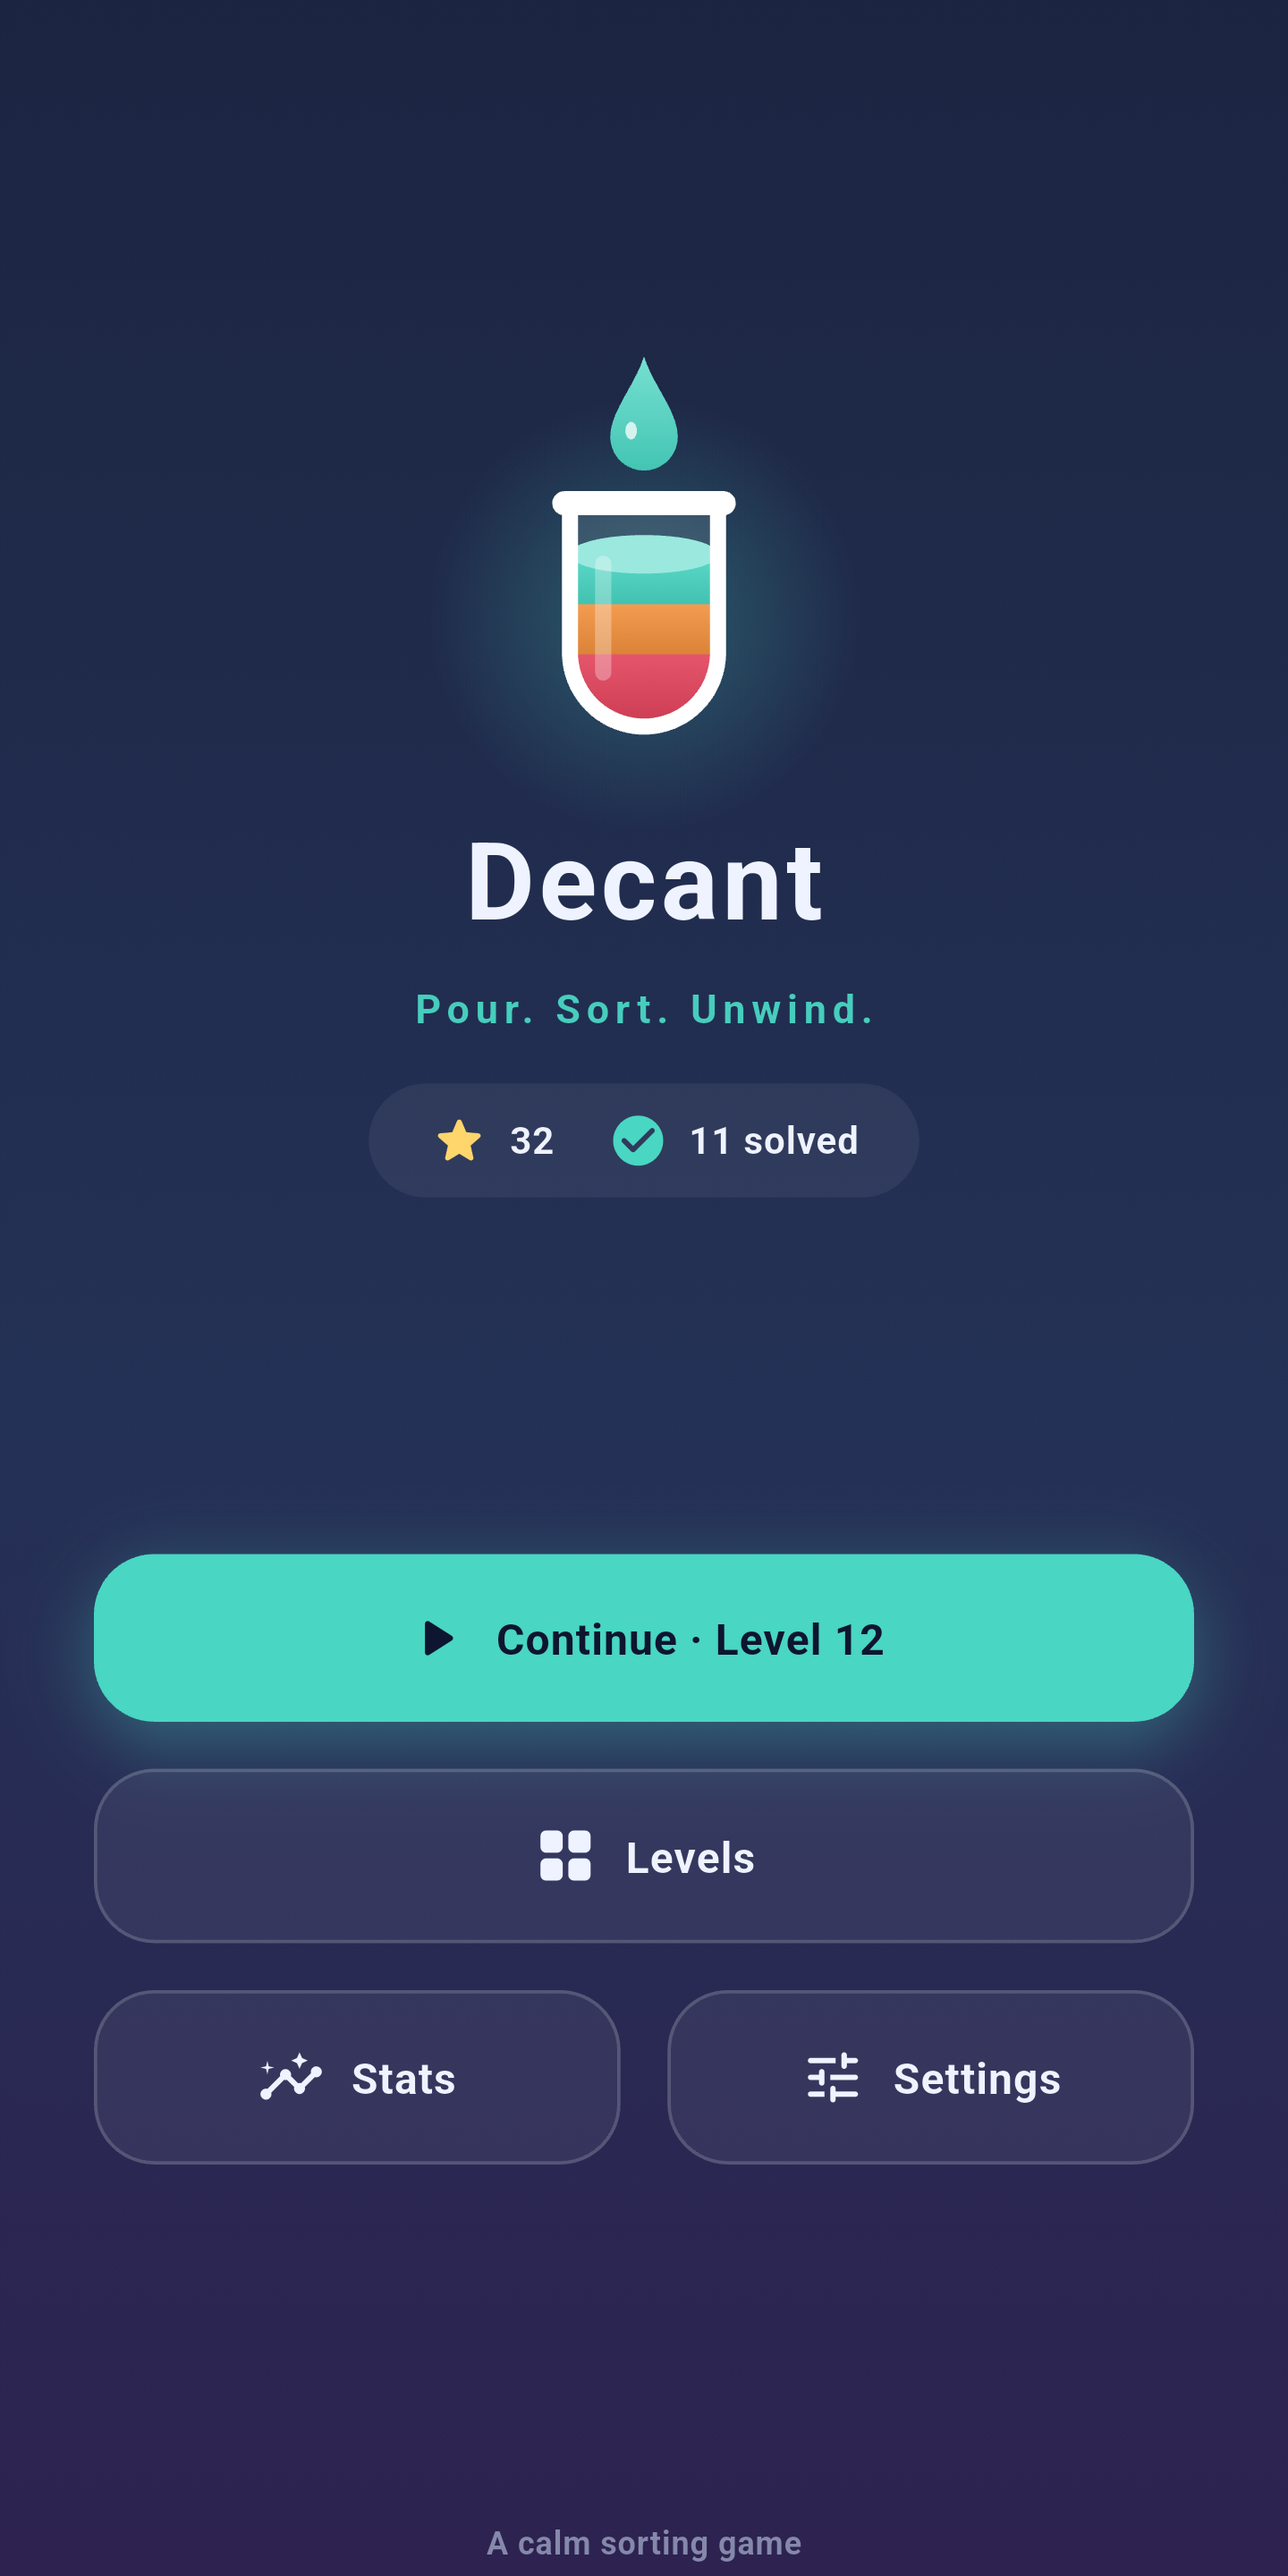
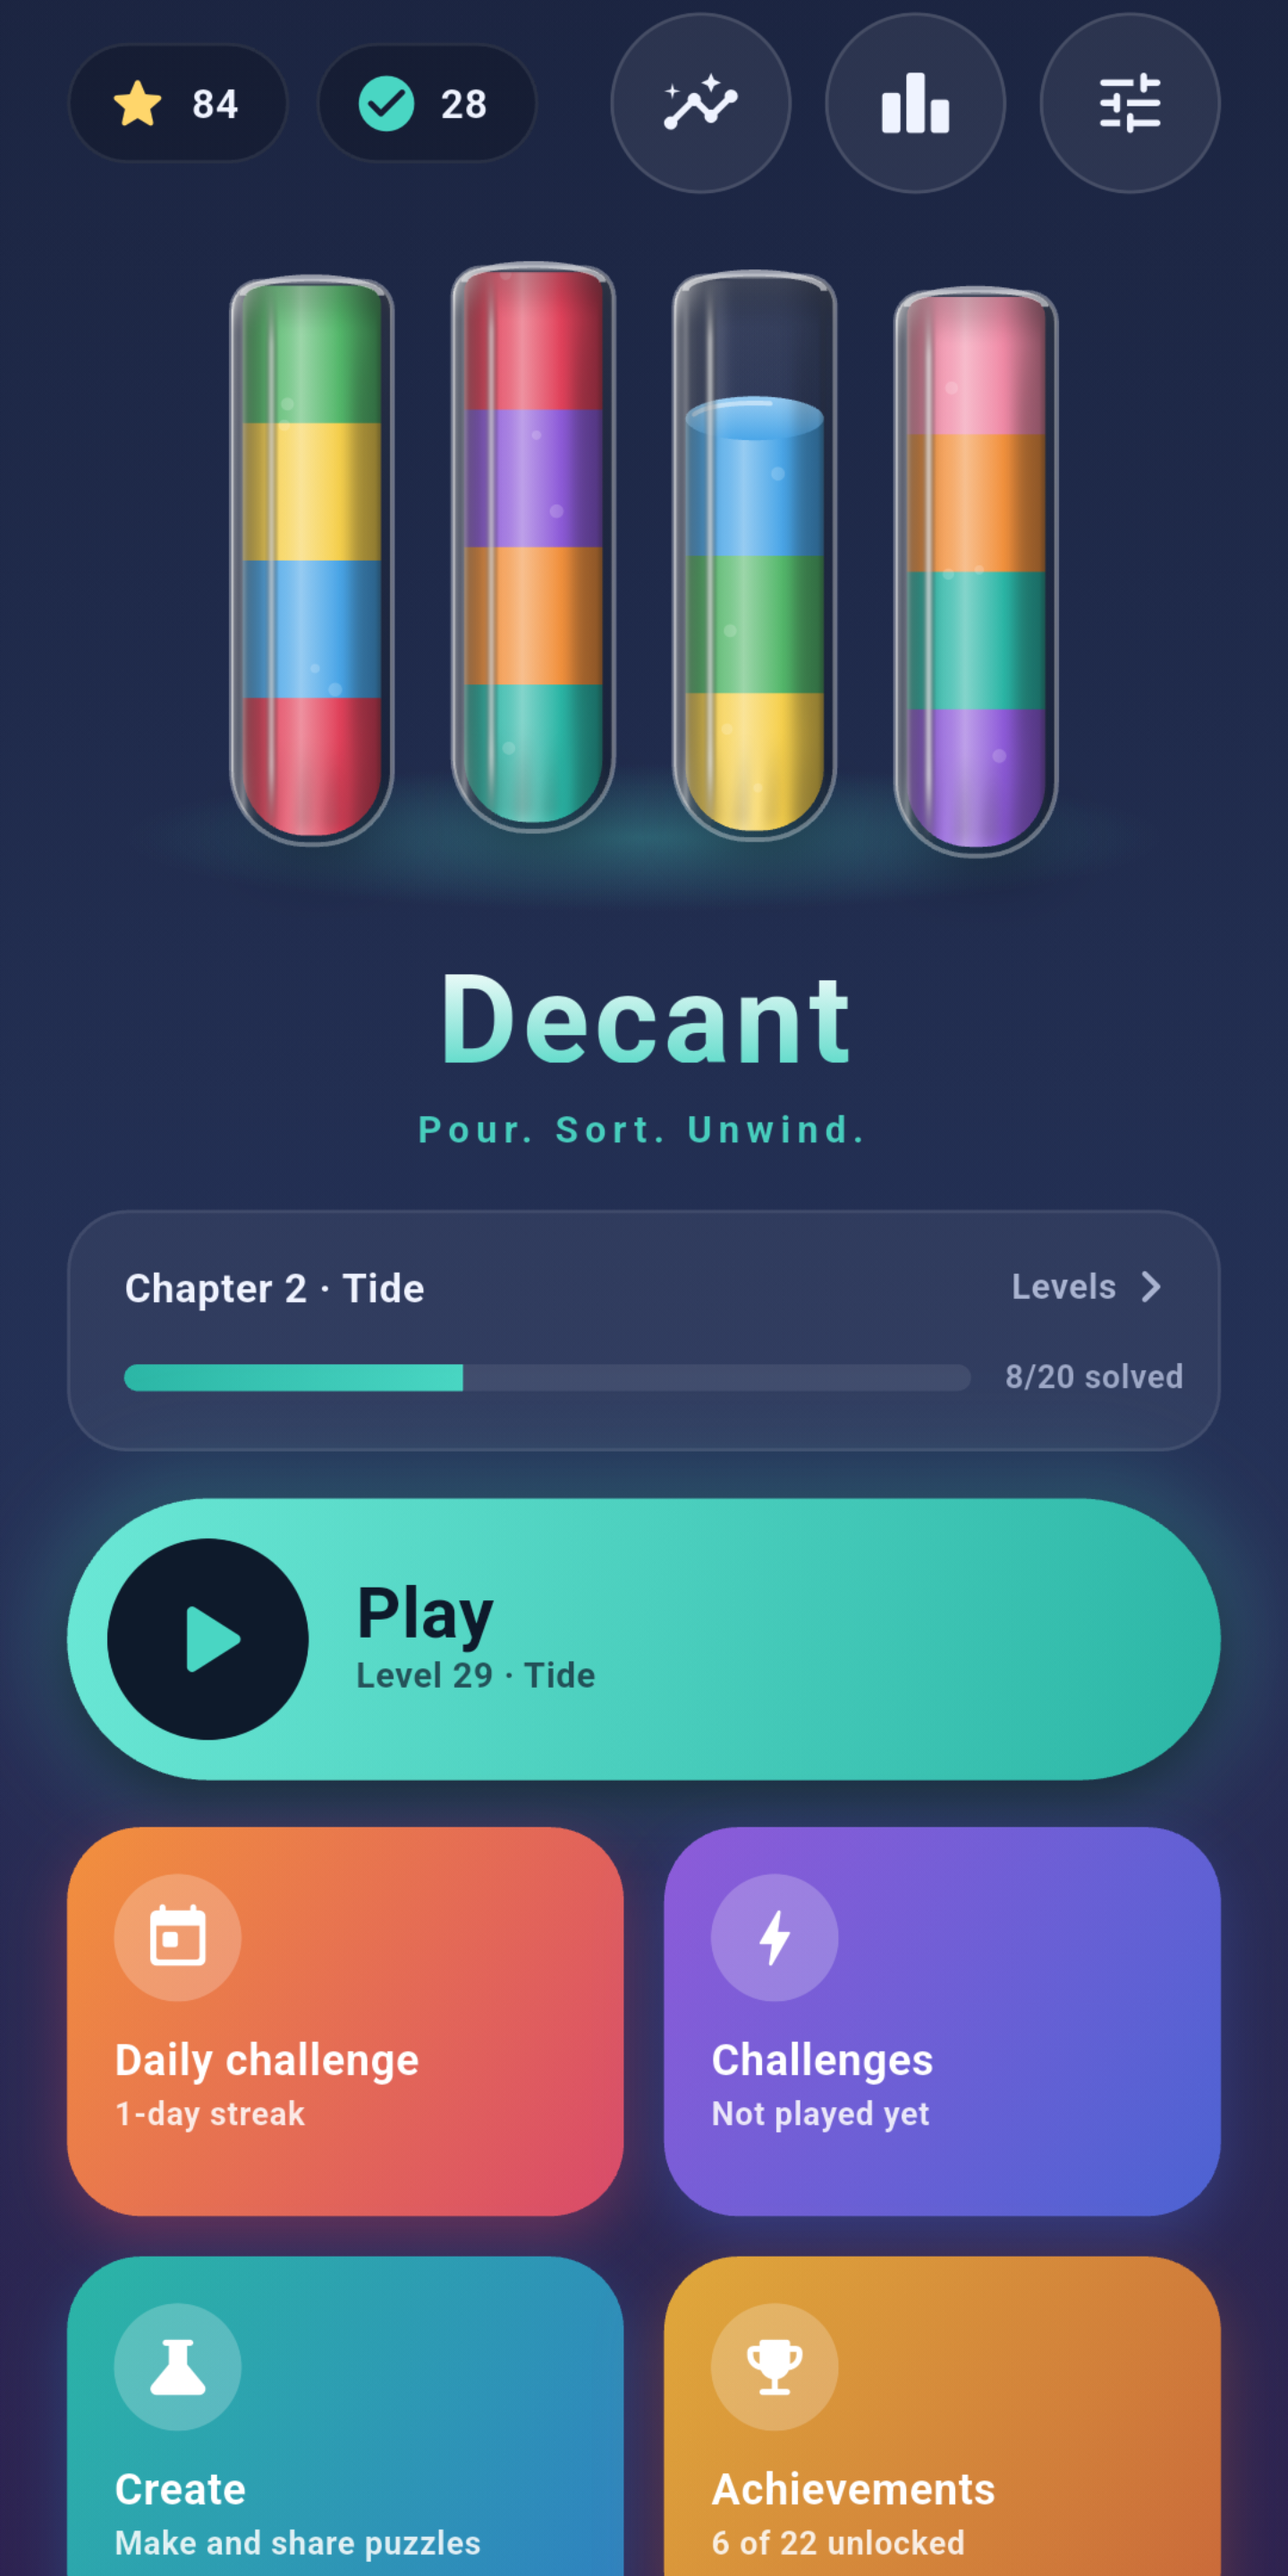
Refresh the Play listing text and screenshots
The listing still said "No ads" and described 1.1. It now covers the
daily challenge, leaderboard, achievements, level editor, modes, themes
and cloud save, and says plainly that hints can come from an optional
video. Eight new phone screenshots replace the six from 1.1.

diff --git a/store/listing.md b/store/listing.md
@@ -9,39 +9,51 @@ Decant: Water Sort Puzzle
 
 ## Short description (80 max)
 
-Pour, sort and unwind. A calm water-sort puzzle with soothing sound.
+Relaxing water sort puzzle: pour colors into glass tubes. A new level every day.
 
 ## Full description (4000 max)
 
-Decant is a calm puzzle about pouring colored liquid between glass tubes until
-every tube holds a single color. No timers, no ads, no pressure. Just you, a
-few glass tubes and a quiet soundtrack.
+Decant is a calm water sort puzzle. Pour colored liquid between glass tubes until every tube holds a single color. No timers unless you want them, no pop-up ads, no pressure. Just you, a few glass tubes and a quiet soundtrack.
 
 HOW TO PLAY
 • Tap a tube to pick up the color on top.
 • Tap another tube to pour. Liquid lands on the same color or in an empty tube.
-• Sort every tube into one color to finish the level. Fewer moves earn more
-  stars.
+• Sort every tube into one color to finish the level. Fewer moves earn more stars.
+
+A NEW PUZZLE EVERY DAY
+• Daily challenge: one level a day, the same for everyone, easy on Monday and hardest on Sunday.
+• Keep your daily streak going, with an optional reminder at the hour you choose.
+• Share your result with friends, and see how you rank on the daily leaderboard.
+
+ENDLESS LEVELS, ALWAYS SOLVABLE
+• Infinite levels in chapters of 20, each with its own background, every one guaranteed solvable.
+• Star targets and a perfect badge for solving in par.
+• Undo as many pours as you like, restart, use a hint or add an empty tube.
+• 22 achievements in bronze, silver and gold.
+
+MORE WAYS TO PLAY
+• Zen mode hides moves and stars. Just pour.
+• Challenges: Move limit (no undo) and Against the clock.
+• Level editor: build your own puzzle, check it's solvable and share it as a code.
 
 MADE TO UNWIND
-• Glass tubes with rising liquid, a pouring stream and a gentle wobble.
+• Glass tubes that tip and pour, with a falling stream, a gentle splash and light that plays through the glass.
 • Pour sounds that rise in pitch as the tube fills.
 • 54 ambient soundscapes and 54 music tracks, each with its own volume.
-• A first-run guide that teaches the game on a real level.
 
-ALWAYS A WAY FORWARD
-• Endless levels that ramp up gently, every one guaranteed solvable.
-• Undo as many pours as you like, or restart.
-• Hints when you're stuck, and an extra empty tube when you need room.
+PLAY YOUR WAY
+• Themes: Twilight, Midnight, Daylight and High contrast.
+• Colorblind-friendly palettes and symbols, so colors never rely on color alone.
+• Works offline. Optional cloud save with Google sign-in to continue on another device.
+• Phone, tablet and landscape layouts. English, Spanish, French and German.
+• Pour speed, reduce motion, haptics and keep screen awake settings.
 
-YOUR PACE
-• Stats: levels solved, stars, perfect levels and a daily streak.
-• Pour speed: Relaxed, Normal or Quick.
-• Reduce motion for calmer visuals (also follows your system setting).
-• Colorblind symbols, so colors never rely on color alone.
-• Haptics, and an option to keep the screen awake while you play.
+FAIR AND FREE
+• No in-app purchases, no banners and no ads between levels.
+• Out of hints? You can choose to watch a short video for one. Nothing plays unless you tap it.
+• Decant is open source on GitHub.
 
-No ads. No in-app purchases. Your progress stays on your device.
+Relaxing water sort, color sort and liquid sort puzzles for every day.
 
 ## Categorization
 
@@ -55,16 +67,18 @@ No ads. No in-app purchases. Your progress stays on your device.
 |---|---|---|
 | App icon | `../branding/decant_icon.png` (1024×1024, scale to 512×512) | 512×512 PNG |
 | Feature graphic | `feature_graphic.jpg` (1024×500, no alpha) | 1024×500 JPEG or 24-bit PNG |
-| Phone screenshots | `screenshots/phone/01–06` (1440×2880) | 2–8, 9:16 to 2:1 |
+| Phone screenshots | `screenshots/phone/01–08` (1440×2880) | 2–8, 9:16 to 2:1 |
 
 Screenshot order and suggested captions:
 
 1. `01_home.png`: Pour. Sort. Unwind.
 2. `02_gameplay.png`: Sort every tube into one color
-3. `03_pour.png`: Smooth pours and soothing sound
-4. `04_how_to_play.png`: Learn as you play
-5. `05_stats.png`: Track your stars and streak
-6. `06_sounds.png`: 54 music tracks, 54 soundscapes
+3. `03_levels.png`: Endless levels, always solvable
+4. `04_achievements.png`: 22 achievements to earn
+5. `05_level_editor.png`: Build and share your own puzzles
+6. `06_stats.png`: Track your stars and streak
+7. `07_settings.png`: Zen mode, pour speed and four themes
+8. `08_sounds.png`: 54 music tracks, 54 soundscapes
 
 The feature graphic is rendered from the in-app logo painter with
 `fvm flutter test tool/render_store_test.dart`, then converted to JPEG with
@@ -77,7 +91,7 @@ for example `sips -c 2880 1440 --cropOffset 116 0` on a 1440×3088 screen.
 ## App content (Policy section)
 
 - **Privacy policy URL:** the GitHub URL of [`PRIVACY.md`](../PRIVACY.md)
-- **Ads:** No
+- **Ads:** Yes (optional rewarded videos for a hint, AdMob)
 - **Target audience:** 13 and over is the simplest choice. Picking ages under 13
   brings in Families policy, which restricts analytics SDKs.
 - **Content rating:** answer the IARC questionnaire. No violence, no user
